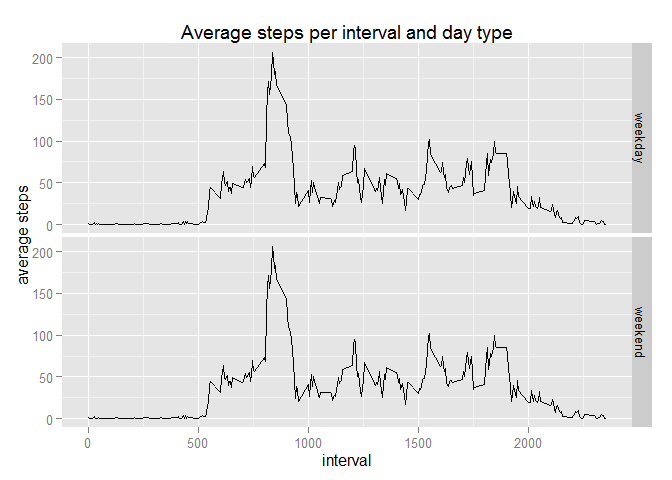
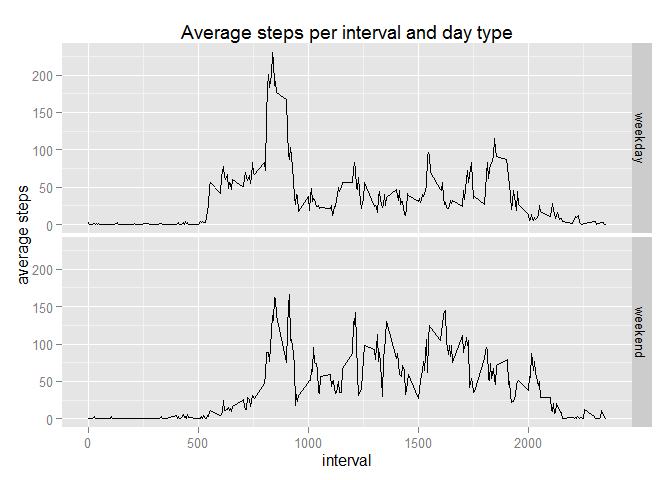
final version

diff --git a/PA1_template.html b/PA1_template.html
@@ -120,16 +120,17 @@ ntotal_steps_median &lt;- median(ndata_day$total_steps, na.rm=TRUE)</code></pre>
 <h2>Are there differences in activity patterns between weekdays and weekends?</h2>
 <pre class="r"><code>Sys.setlocale(&quot;LC_TIME&quot;, &quot;English&quot;)</code></pre>
 <pre><code>## [1] &quot;English_United States.1252&quot;</code></pre>
-<pre class="r"><code>ndata$daytype &lt;- factor(ifelse(weekdays(as.Date(ndata$date)) %in% c(&quot;Saturday&quot;, &quot;Sunday&quot;), &quot;weekend&quot;, &quot;weekday&quot;))
+<pre class="r"><code>ndata$daytype &lt;- factor(ifelse(weekdays(as.Date(ndata$date)) %in% 
+                                       c(&quot;Saturday&quot;, &quot;Sunday&quot;), &quot;weekend&quot;, &quot;weekday&quot;))
 ndata_interval_wd &lt;- ndata %&gt;% group_by(interval, daytype) %&gt;%
-        summarize(mean_steps=mean(mean_steps))
+        summarize(nmean_steps=mean(steps))
 
 library(ggplot2, warn.conflicts = FALSE)
-g &lt;- ggplot(ndata_interval_wd, aes(interval, mean_steps))
+g &lt;- ggplot(ndata_interval_wd, aes(interval, nmean_steps))
 g + geom_line() + facet_grid(daytype~.) + 
         labs(title=&quot;Average steps per interval and day type&quot;, y=&quot;average steps&quot;)</code></pre>
[1 lines of base64/hex data omitted]
-<p>There are not visible differences between weekdays and weekends.</p>
[1 lines of base64/hex data omitted]
+<p>There are visible differences between weekdays and weekends. On weekends the distribution is more uniform during the day, and the maximum at 08:35 corresponds to weekdays.</p>
 </div>
 
 

diff --git a/PA1_template.md b/PA1_template.md
@@ -95,18 +95,20 @@ Sys.setlocale("LC_TIME", "English")
 ```
 
 ```r
-ndata$daytype <- factor(ifelse(weekdays(as.Date(ndata$date)) %in% c("Saturday", "Sunday"), "weekend", "weekday"))
+ndata$daytype <- factor(ifelse(weekdays(as.Date(ndata$date)) %in% 
+                                       c("Saturday", "Sunday"), "weekend", "weekday"))
 ndata_interval_wd <- ndata %>% group_by(interval, daytype) %>%
-        summarize(mean_steps=mean(mean_steps))
+        summarize(nmean_steps=mean(steps))
 
 library(ggplot2, warn.conflicts = FALSE)
-g <- ggplot(ndata_interval_wd, aes(interval, mean_steps))
+g <- ggplot(ndata_interval_wd, aes(interval, nmean_steps))
 g + geom_line() + facet_grid(daytype~.) + 
         labs(title="Average steps per interval and day type", y="average steps")
 ```
 
 ![](PA1_template_files/figure-html/steps_per_interval&daytype-1.png) 
   
-There are not visible differences between weekdays and weekends.  
+There are visible differences between weekdays and weekends. On weekends the distribution
+is more uniform during the day, and the maximum at 08:35 corresponds to weekdays.  
 
 
